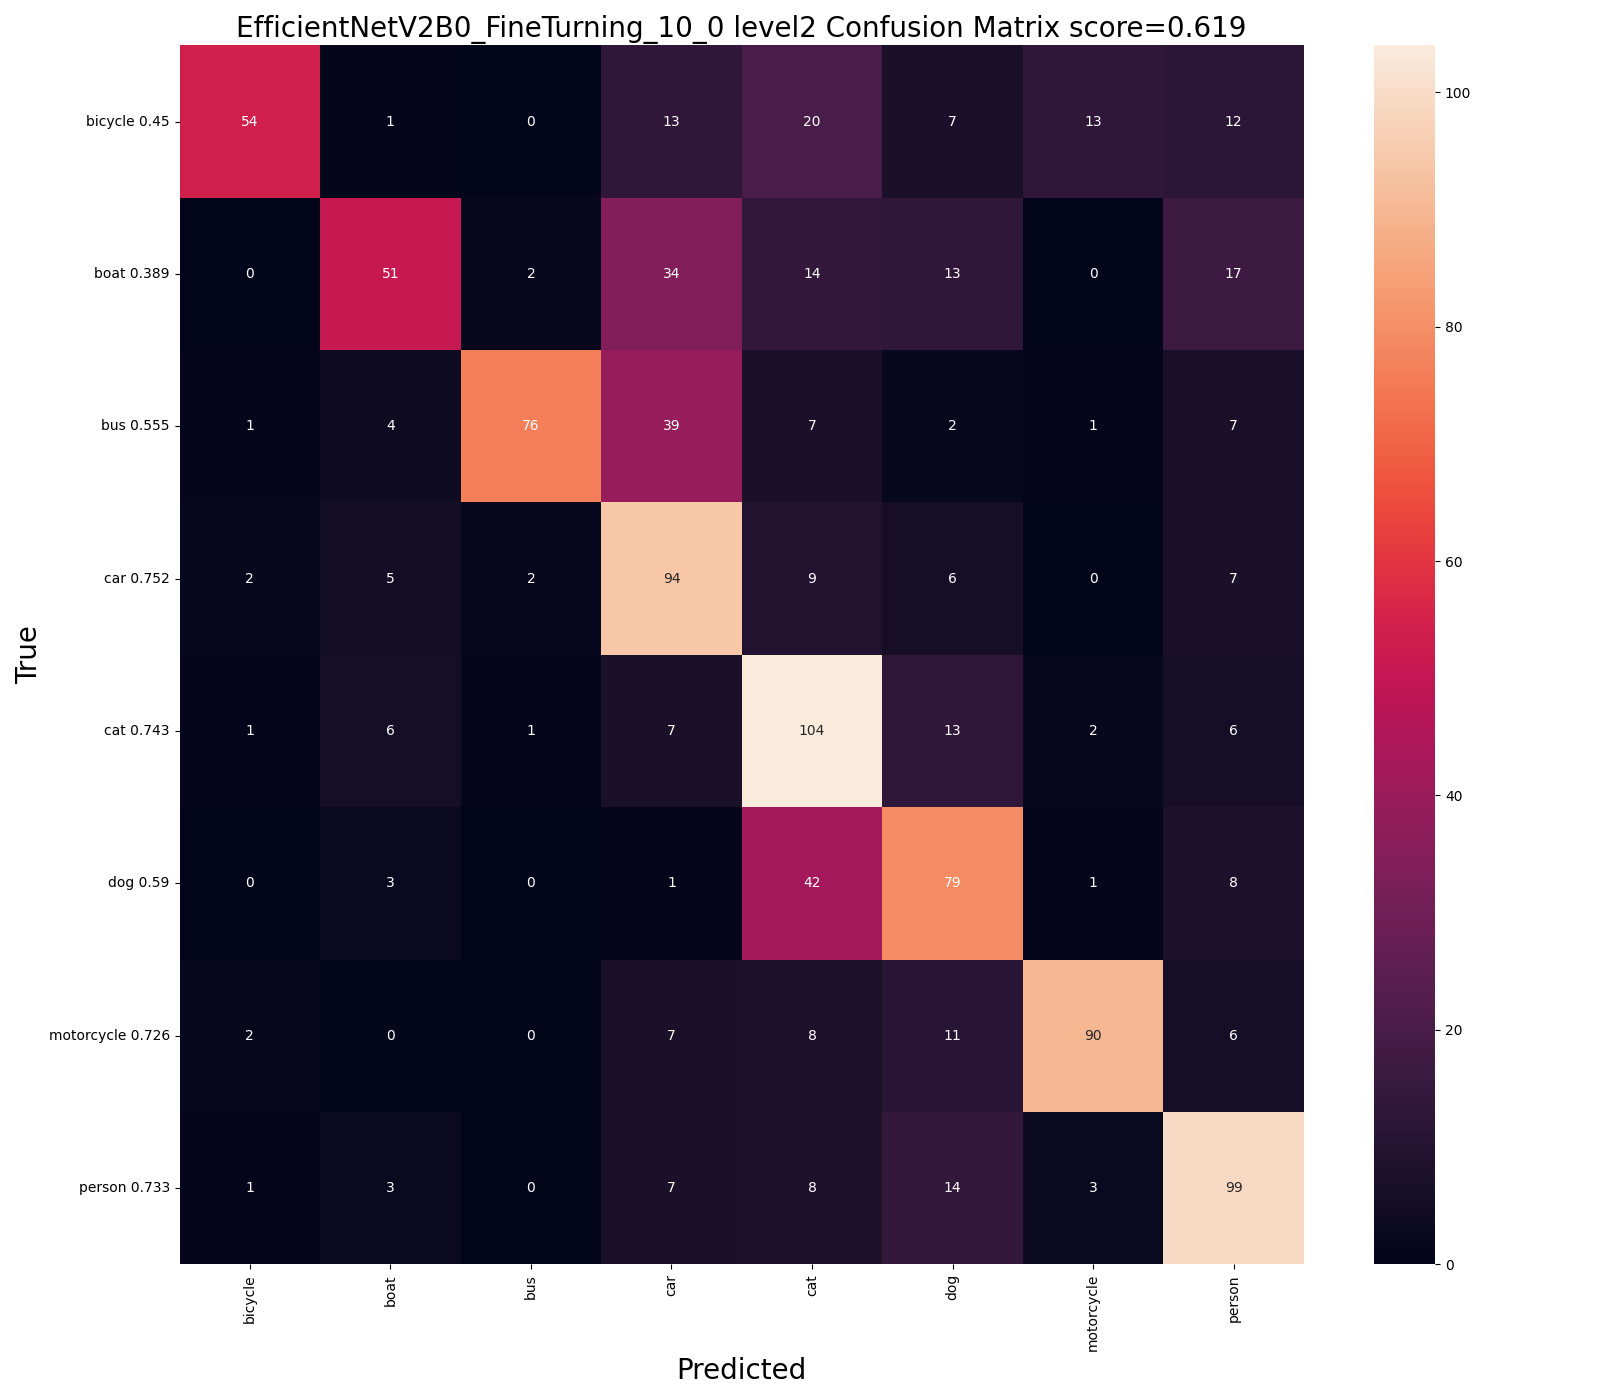
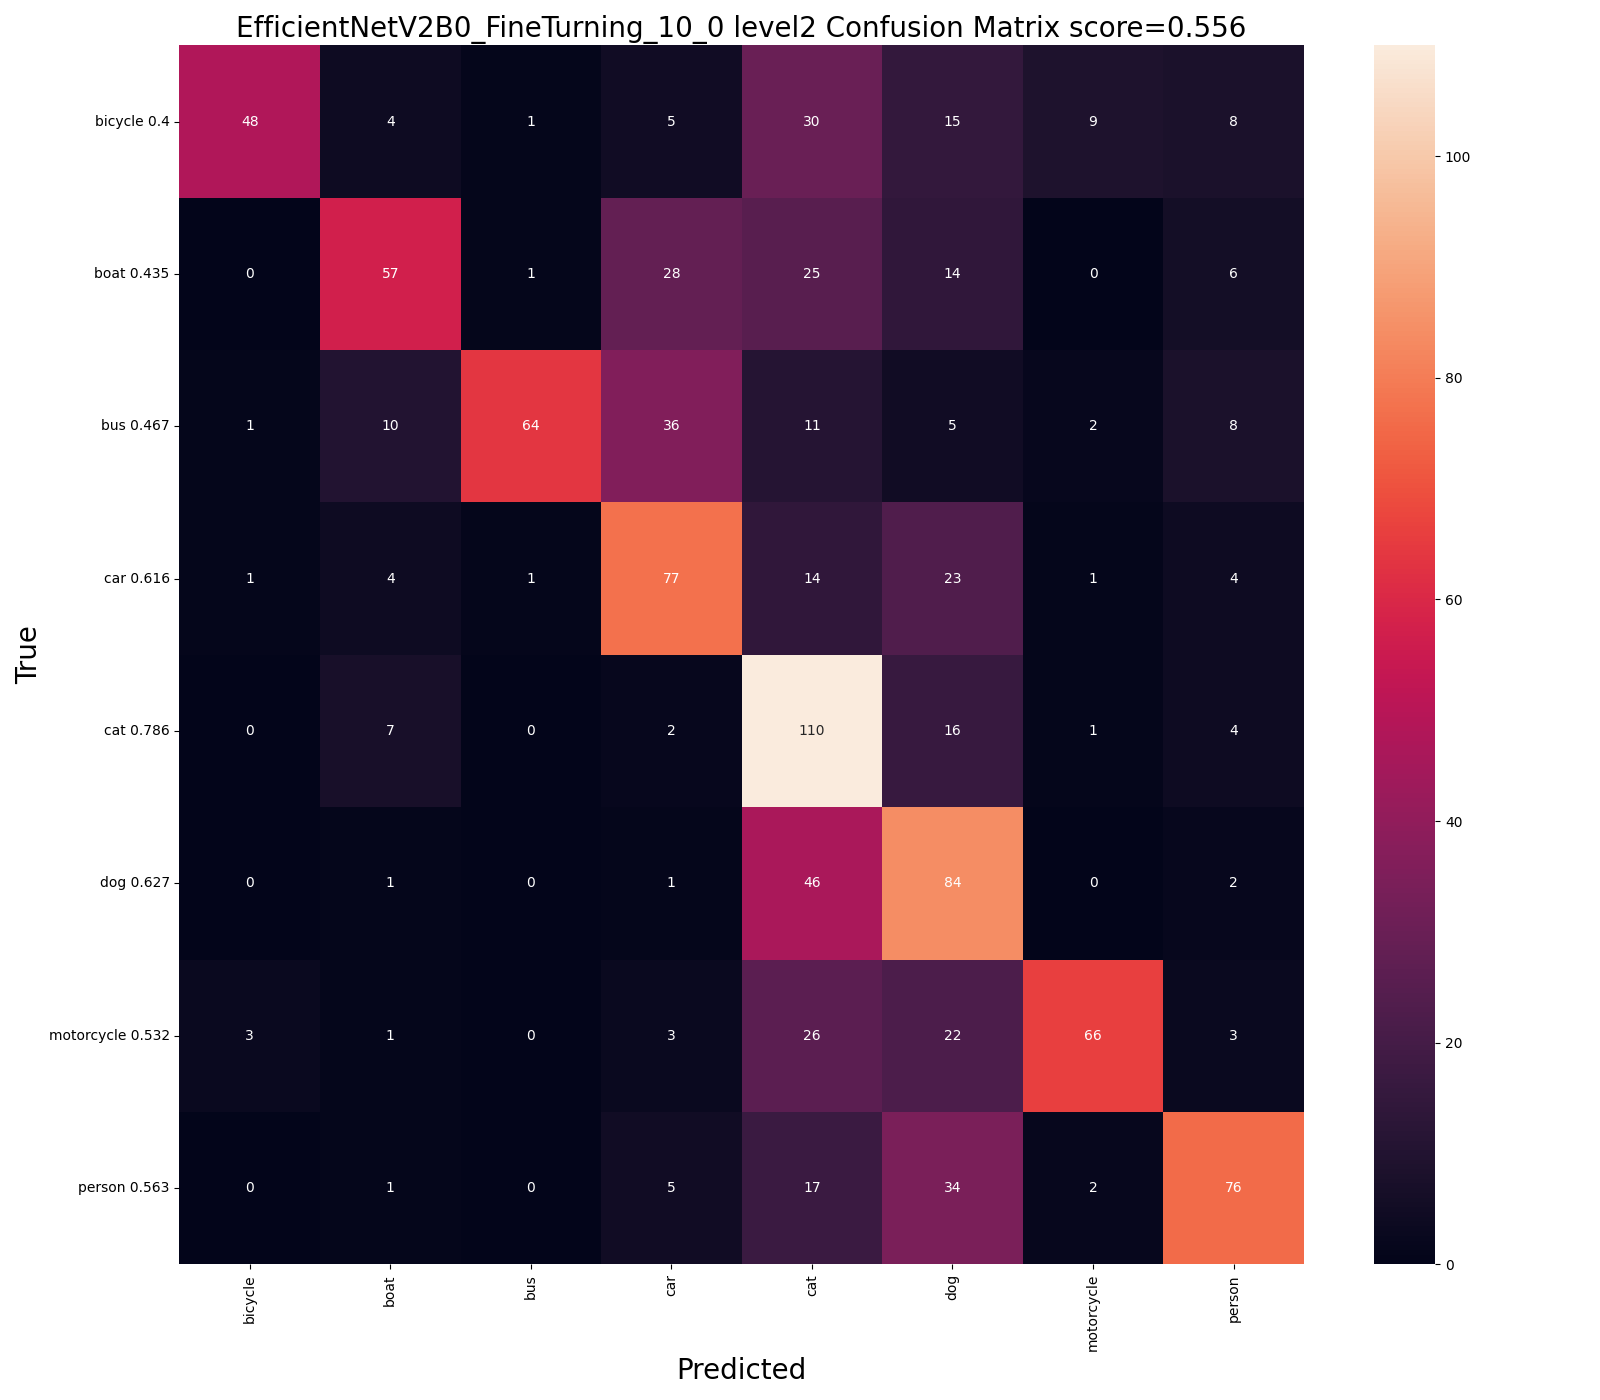
update

diff --git a/code/DP/DPhandler.py b/code/DP/DPhandler.py
@@ -57,6 +57,30 @@ classes = ['airliner',
 
 classes = ["bicycle", "boat", "bus", "car",
            "cat", "dog", "motorcycle", "person"]
+def print_array_info(v):
+    print("{} is of type {} with shape {} and dtype {}".format(v,
+                                                           eval("type({})".format(v)),
+                                                           eval("{}.shape".format(v)),
+                                                           eval("{}.dtype".format(v))
+                                                           ))
+
+def show_samples(array_of_images, label):
+    n = array_of_images.shape[0]
+    total_rows = 1+int((n-1)/5)
+    total_columns = 5
+    fig = plt.figure()
+    gridspec_array = fig.add_gridspec(total_rows, total_columns)
+
+    for i, (img, label) in enumerate(zip(array_of_images, label)):
+        row = int(i/5)
+        col = i % 5
+        ax = fig.add_subplot(gridspec_array[row, col])
+        ax.get_xaxis().set_visible(False)
+        ax.get_yaxis().set_visible(False)
+        ax.set_title(classes[int(label)])
+        ax.imshow(img)
+
+    plt.show()
 # classes = ['bicycle',
 #  'boat',
 #  'bottle',
@@ -90,6 +114,17 @@ def uint8c(x):
     return np.uint8(x2)
 
 seed_aug = 1
+
+def preproceessing_adaptive_histogram_equalization(img):
+    # configure CLAHE
+    img = np.uint8(img)
+    clahe_model = cv2.createCLAHE(clipLimit=3.0, tileGridSize=(8, 8))
+    # For ease of understanding, we explicitly equalize each channel individually
+    colorimage_b = clahe_model.apply(img[:, :, 0])
+    colorimage_g = clahe_model.apply(img[:, :, 1])
+    colorimage_r = clahe_model.apply(img[:, :, 2])
+    img_ahe = np.stack((colorimage_b, colorimage_g, colorimage_r), axis=2)
+    return img_ahe
 
 def preprocess(p=0.5):
     def _preprocess(x):
@@ -313,7 +348,6 @@ class DPhandler(object):
                 shuffle=True,
                 class_mode="categorical",
                 target_size=(self.image_size, self.image_size))
-
         self.step_per_epoch_train = len(self.train_generator)
         self.step_per_epoch_valid = len(self.validation_generator)
         print(self.batch_training, len(self.train_generator), self.batch_valid, len(self.validation_generator))
@@ -398,14 +432,14 @@ class DPhandler(object):
         return np.max(self.fit_history.history['val_accuracy'])
 
     @staticmethod
-    def load_dataset(dataset_dir, preprocess, classes, BATCH_SIZE=1, image_size=224):
+    def load_dataset(dataset_dir, preprocess, classes, BATCH_SIZE=1, image_size=224, shuffle=False):
         data_generator = ImageDataGenerator(preprocessing_function=preprocess)
         ds = data_generator.flow_from_directory(
             directory=dataset_dir,
             target_size=(image_size, image_size),
             batch_size=BATCH_SIZE,
             classes=classes,
-            shuffle=False,
+            shuffle=shuffle,
             seed=123
         )
         return ds
@@ -613,15 +647,15 @@ def load_exdark_datasets():
                        'window': ds_ExDark_window, 'shadow': ds_ExDark_shadow, 'Twilight': ds_ExDark_Twilight}
     return ds_exdark_tests
 
-def load_test_dataset():
+def load_test_dataset(preprocess):
     # load test datasets
     ds_exdark_tests= load_exdark_datasets()
     #df_test = DPhandler.Create_df_dataset_from_directories([PathDatasets.COCO2017_TEST.value], percent=1)
-    ds_test = DPhandler.load_dataset(PathDatasets.COCO2017_TEST.value, preprocess_input, classes)
-    ds_aug1 = DPhandler.load_dataset(PathDatasets.coco_aug1.value, preprocess_input, classes)
-    ds_aug2 = DPhandler.load_dataset(PathDatasets.coco_aug2.value, preprocess_input, classes)
-    ds_aug3 = DPhandler.load_dataset(PathDatasets.coco_aug3.value, preprocess_input, classes)
-    ds_aug4 = DPhandler.load_dataset(PathDatasets.coco_aug4.value, preprocess_input, classes)
+    ds_test = DPhandler.load_dataset(PathDatasets.COCO2017_TEST.value, preprocess, classes)
+    ds_aug1 = DPhandler.load_dataset(PathDatasets.coco_aug1.value, preprocess, classes)
+    ds_aug2 = DPhandler.load_dataset(PathDatasets.coco_aug2.value, preprocess, classes)
+    ds_aug3 = DPhandler.load_dataset(PathDatasets.coco_aug3.value, preprocess, classes)
+    ds_aug4 = DPhandler.load_dataset(PathDatasets.coco_aug4.value, preprocess, classes)
     ds_augs = [ds_aug1, ds_aug2, ds_aug3, ds_aug4]
     #ds_ExDark = DPhandler.load_dataset(PathDatasets.EXDARK.value, preprocess_input, classes)
     ds_ExDark_test = DPhandler.load_dataset(PathDatasets.EXDARK_TEST.value, preprocess_input, classes)
@@ -672,7 +706,7 @@ def dark_ratio(params, do_train, real_dark_train, ds_tests, ds_names, train_dire
 
         print(colored(f"{ModelName}", 'green'))
         checkpoint_path, figure_path, \
-        saved_models_path = get_directories_and_paths(ModelName)
+        checkpoint_path, figure_path, saved_models_path = get_directories_and_paths(ModelName)
         if do_train == False:
             # load our trained model
             dp = load_saved_model(saved_models_path, ModelName, figure_path)
@@ -689,7 +723,7 @@ def dark_ratio(params, do_train, real_dark_train, ds_tests, ds_names, train_dire
 def run_one(params, do_train, train_directories, ds_tests, ds_names, df_summery, do_test=True):
     print(colored(f"{params['ModelName']}", 'green'))
     checkpoint_path, figure_path, \
-    saved_models_path = get_directories_and_paths(params['ModelName'])
+    checkpoint_path, figure_path, saved_models_path = get_directories_and_paths(params['ModelName'])
     if do_train == False:
         # load our trained model
         dp = load_saved_model(saved_models_path, params['ModelName'], figure_path)
@@ -793,10 +827,17 @@ def get_directories_and_paths(ModelName):
     saved_models_path = os.path.join(Path, ModelName + ".h")
     return checkpoint_path, figure_path, saved_models_path
 
+def plot_exmaple_ds(path):
+    ds_test = DPhandler.load_dataset(path, preprocess_input, classes, BATCH_SIZE=15, shuffle=True)
+    for x_batch, y_batch in ds_test:
+        label_ind = np.argmax(y_batch, axis=1)
+        show_samples(np.uint8(x_batch), label_ind)
+        break
 class Test_options(Flag):
     RATIO = auto()
     ONE_TEST = auto()
     GRID_SEARCH = auto()
+    Enhance = auto()
 
 if __name__ == '__main__':
     params = get_model_parameters()
@@ -805,25 +846,41 @@ if __name__ == '__main__':
     do_train = False
     real_dark_train = False
     seed_aug = 0
-    test_option = Test_options.RATIO
+    test_option = Test_options.Enhance
     grid_search_params = {'lr_schedule': True, 'batch_training': [32, 64, 128],
-                          'batch_valid': [32, 64, 128], 'ModelName': ['grid1', 'grid2', 'grid3' ]}
+                          'batch_valid': [32, 64, 128], 'ModelName': ['grid1', 'grid2', 'grid3']}
 
     # create dataframe for results
     keys_gen = ['Model', 'Dataset', 'acc_val', 'Accuracy', 'Precision', 'Recall', 'F1-score'] + classes
     df_summery = pd.DataFrame(np.empty((300, len(keys_gen)))*np.nan, columns=keys_gen)
+
+    #plot_exmaple_ds(PathDatasets.EXDARK_TEST.value)
     # load test datasets
-    ds_tests, ds_names = load_test_dataset()
+    #ds_tests, ds_names = load_test_dataset(preprocess_input)
+
     if Test_options.RATIO in test_option:
+        ds_tests, ds_names = load_test_dataset(preprocess_input)
         dark_ratio(params, do_train, real_dark_train, ds_tests, ds_names, train_directories, df_summery, ratio)
     if Test_options.ONE_TEST in test_option:
+        ds_tests, ds_names = load_test_dataset(preprocess_input)
         run_one(params, do_train, train_directories, ds_tests, ds_names, df_summery)
     if Test_options.GRID_SEARCH in test_option:
+        ds_tests, ds_names = load_test_dataset(preprocess_input)
         max_size = max([len(v) for v in grid_search_params.values()])
         for i in range(max_size):
             params = edit_parameters_grid_search(grid_search_params, params, i)
             df_summery = run_one(params, do_train, train_directories, ds_tests, ds_names, df_summery)
-
             df_summery.to_excel(f"{params['ModelName']}.xlsx")
+    if Test_options.Enhance in test_option:
+        # do Enhance image
+        ds_tests, ds_names = load_test_dataset(preproceessing_adaptive_histogram_equalization)
+        # create a CLAHE object (Arguments are optional).
+        checkpoint_path, figure_path, \
+        saved_models_path = get_directories_and_paths(params['ModelName']+ '_10_0')
+        dp = load_saved_model(saved_models_path, params['ModelName'] + '_10_0', figure_path + 'AHE')
+        df_summery = evaluate_model_on_datasets(dp, df_summery, ds_tests, ds_names, params['ModelName'])
+        df_summery.to_excel(params['ModelName'] + 'AHE' + '.xlsx')
+        pass
+
 
 

diff --git a/code/anlayze_tools/load_excel_summary_dp.py b/code/anlayze_tools/load_excel_summary_dp.py
@@ -1,0 +1,12 @@
+import pandas as pd
+import matplotlib.pyplot as plt
+path = r"C:\Users\rom21\OneDrive\Desktop\git_project\Final_project_afeka\afeka_project_image_classification_low_light\code\DP\EfficientNetV2B0_FineTurning_0_10.xlsx"
+df = pd.read_excel(path)
+fig, ax = plt.subplots(6, sharex=True)
+for i, d in enumerate(['Test', 'ExDark_test', 'level1', 'level2', 'level3', 'level4']):
+    ax[i].plot(df[df['Dataset']==d]['Model'],df[df['Dataset']==d]
+    [['Accuracy', 'Precision','Recall', 'F1-score']],
+               label=['Accuracy', 'Precision','Recall', 'F1-score'])
+    ax[i].set_ylabel(d)
+lines, labels = ax[0].get_legend_handles_labels()
+fig.legend(lines, labels)
